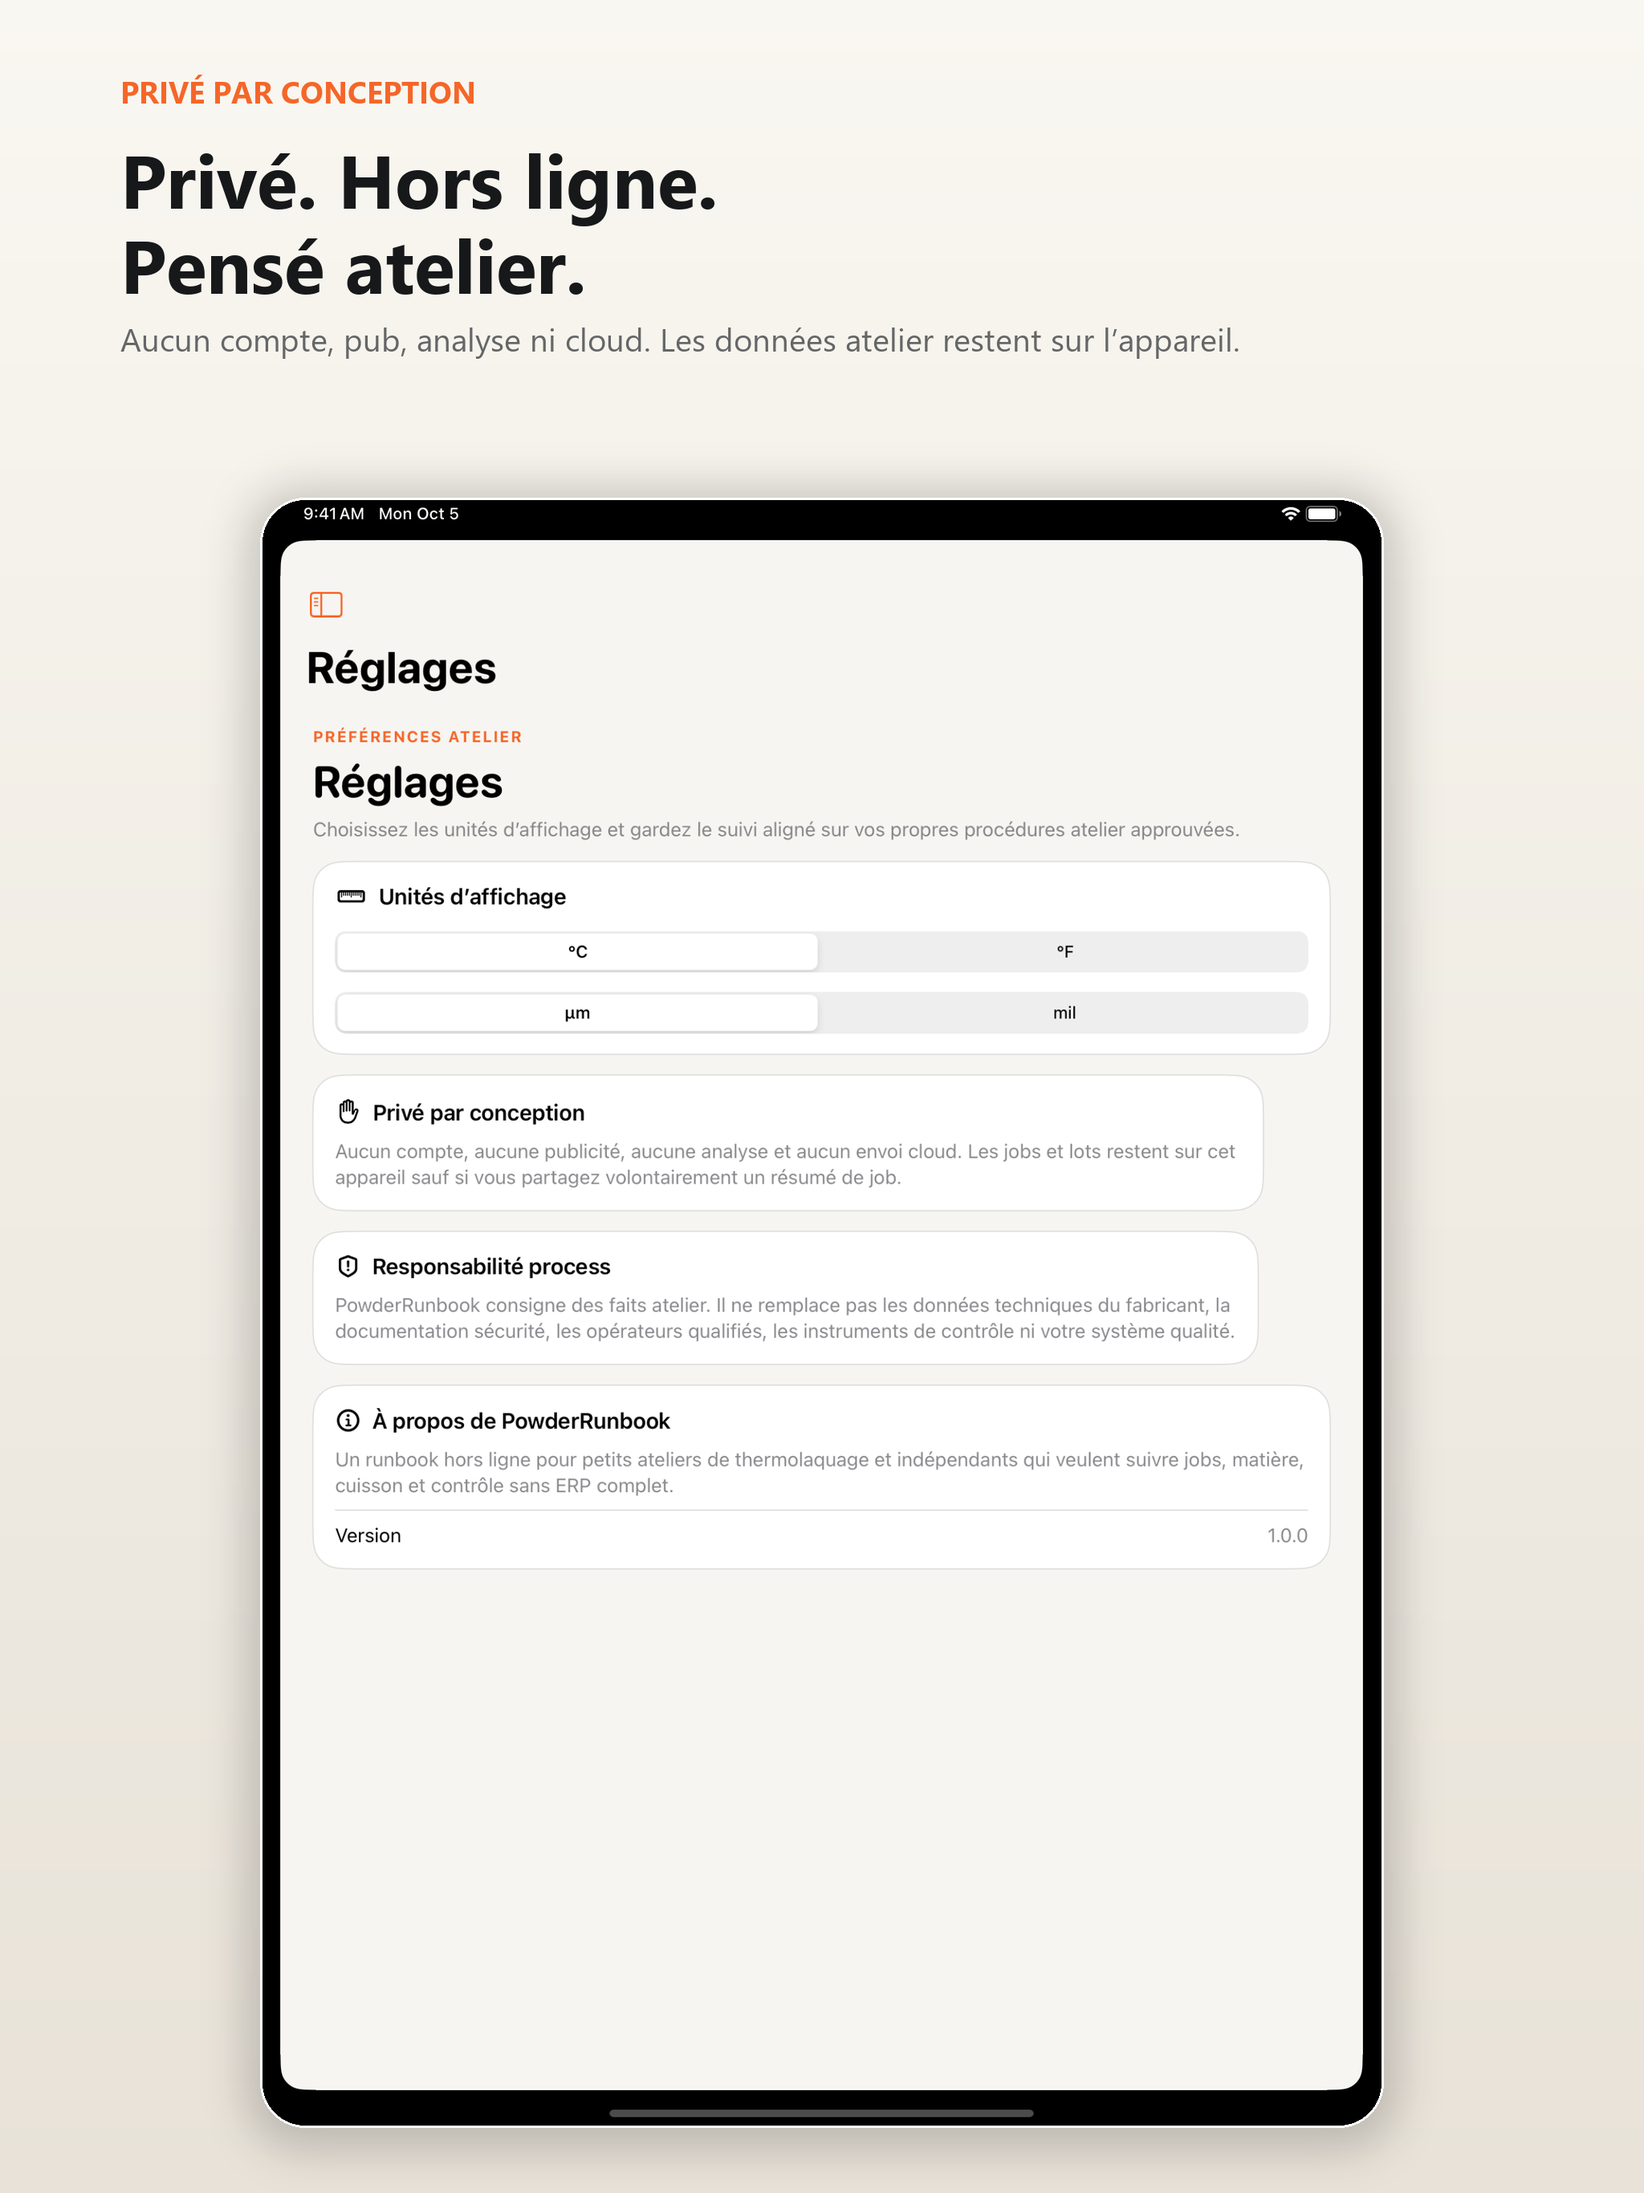
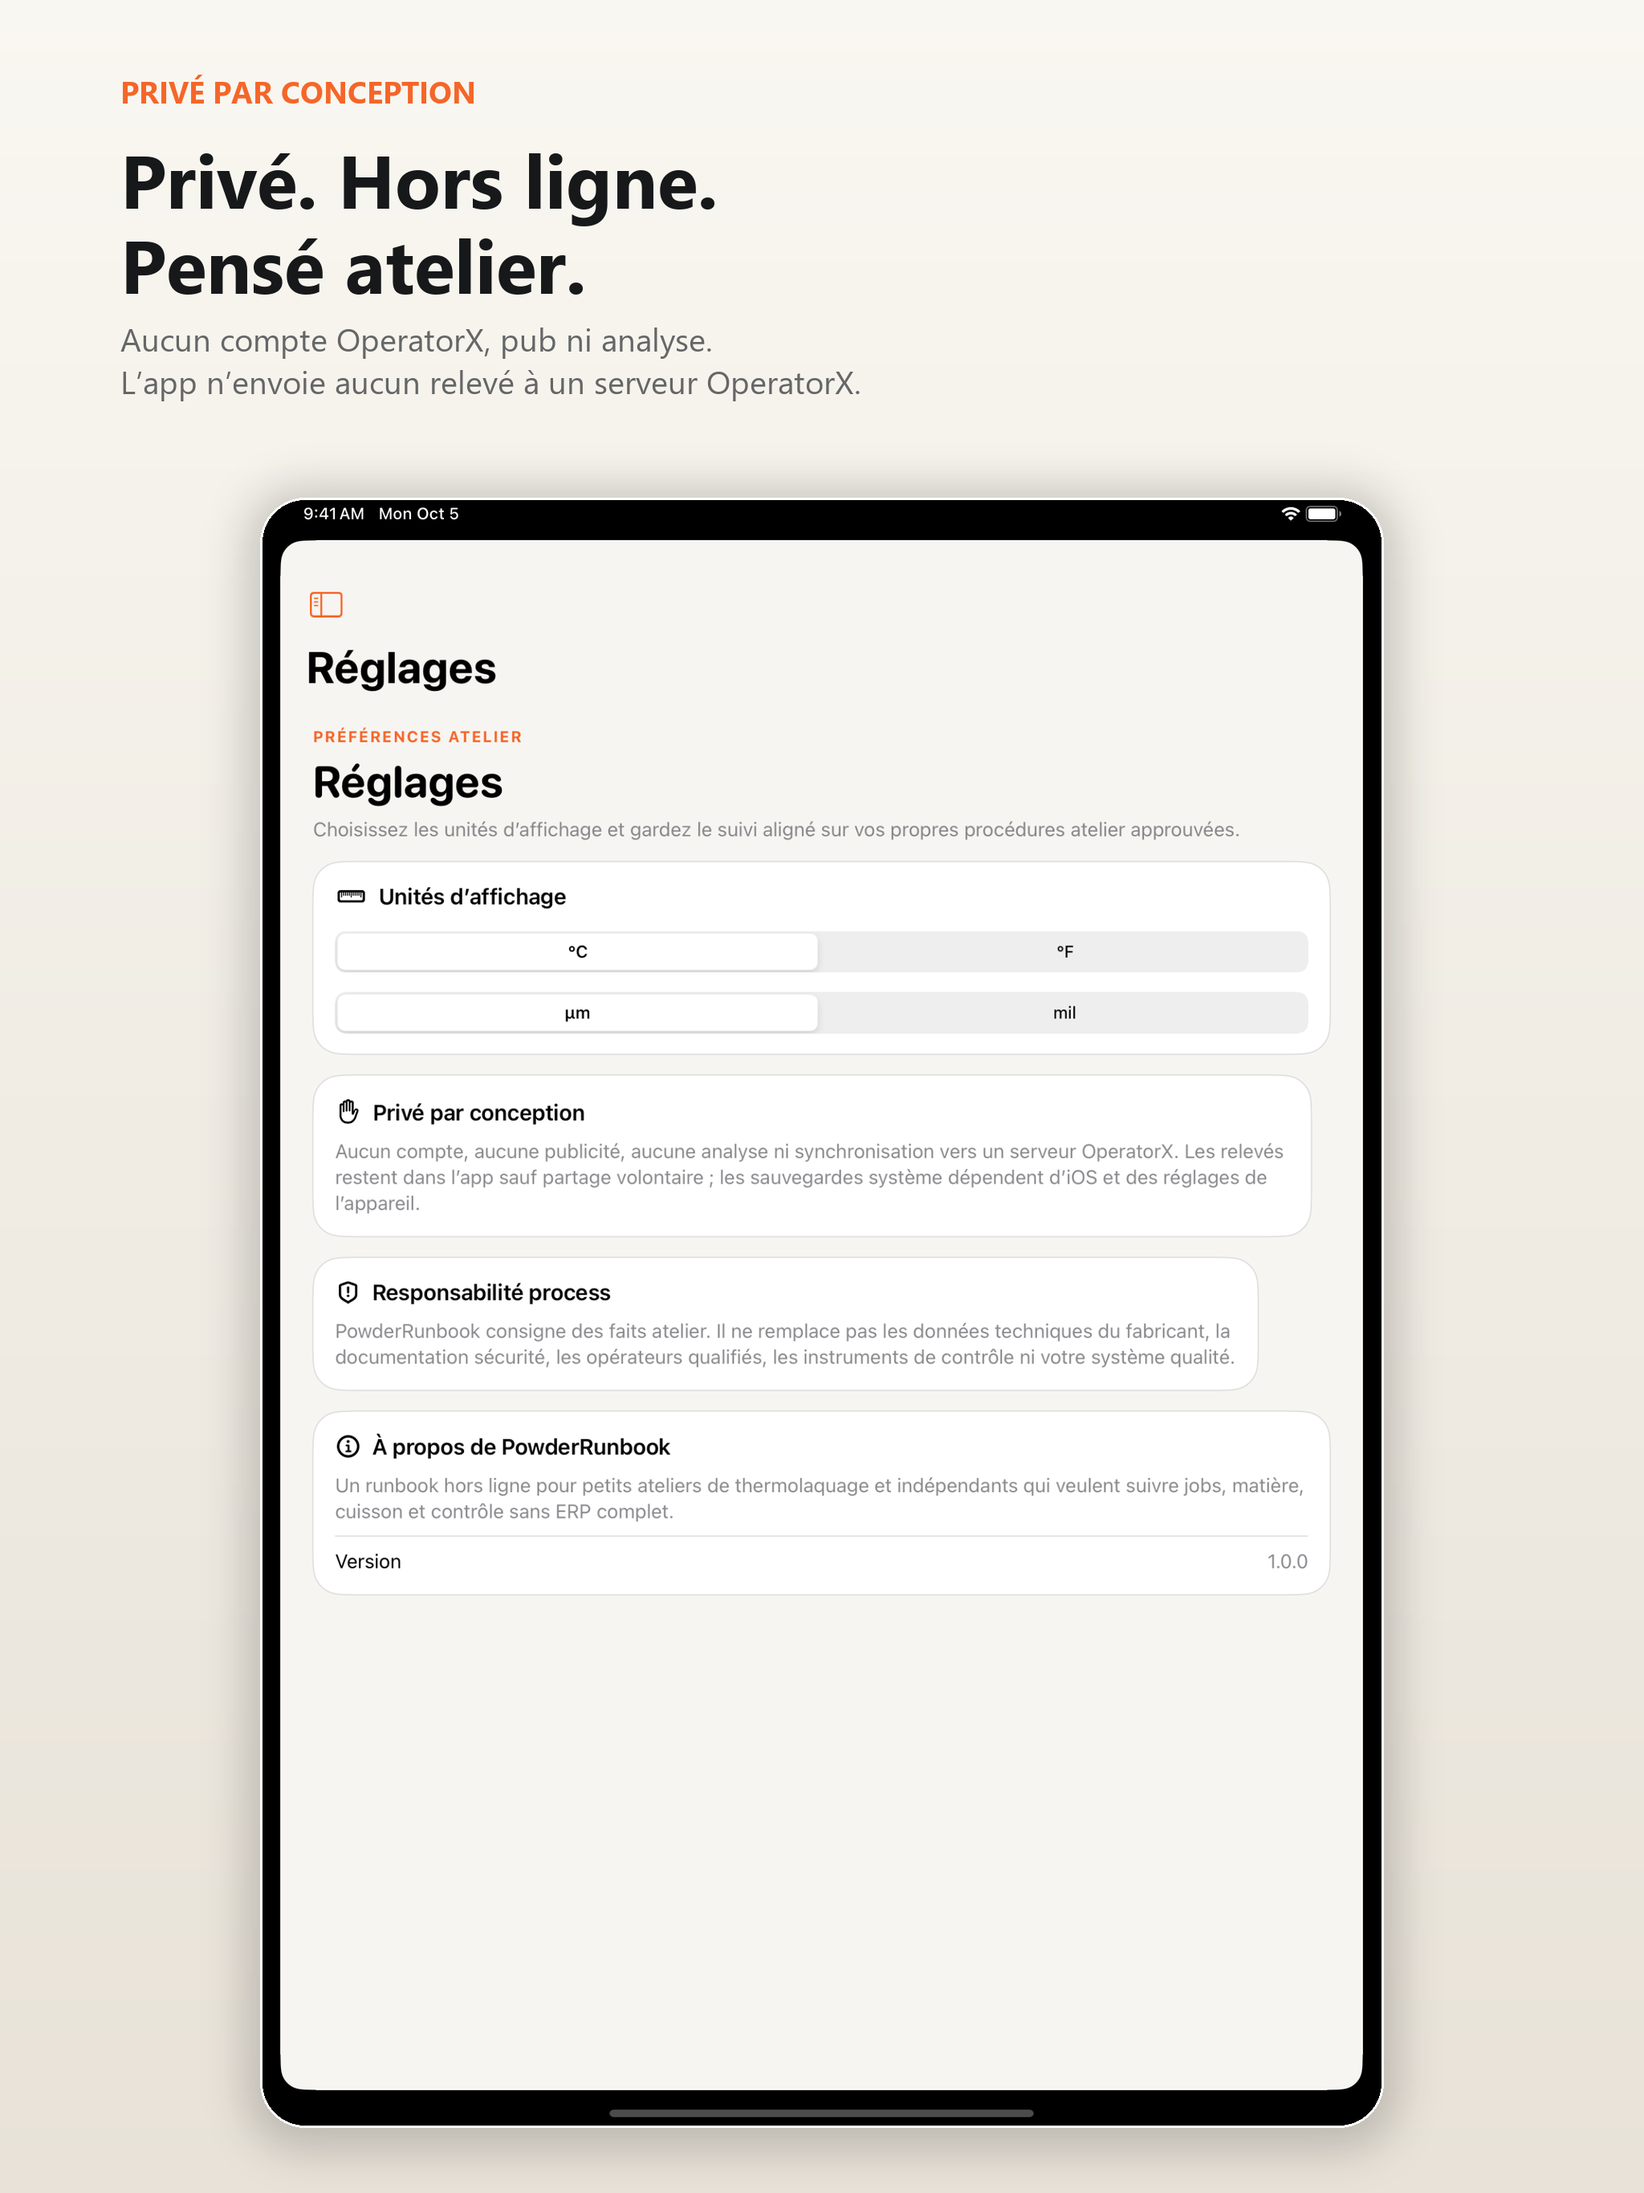
Finalize audited App Store presentation

diff --git a/apple/review/REVIEW_NOTES.md b/apple/review/REVIEW_NOTES.md
@@ -14,3 +14,5 @@ Suggested reviewer flow:
 Differentiation: PowderRunbook is intentionally not a CRM, scheduling, messaging, ordering or team-management service. Its core utility is a private on-device process record tying material lot, cure values, coating thickness and operator QC to each job.
 
 All job and powder data is stored locally on device. PowderRunbook records operator-entered values and never determines or certifies cure/process compliance. Users are directed to manufacturer TDS/SDS and approved shop procedures.
+
+The App Store screenshots show realistic example records created with the same user-facing fields available in the production app. There is no hidden demo mode or preloaded production database.
